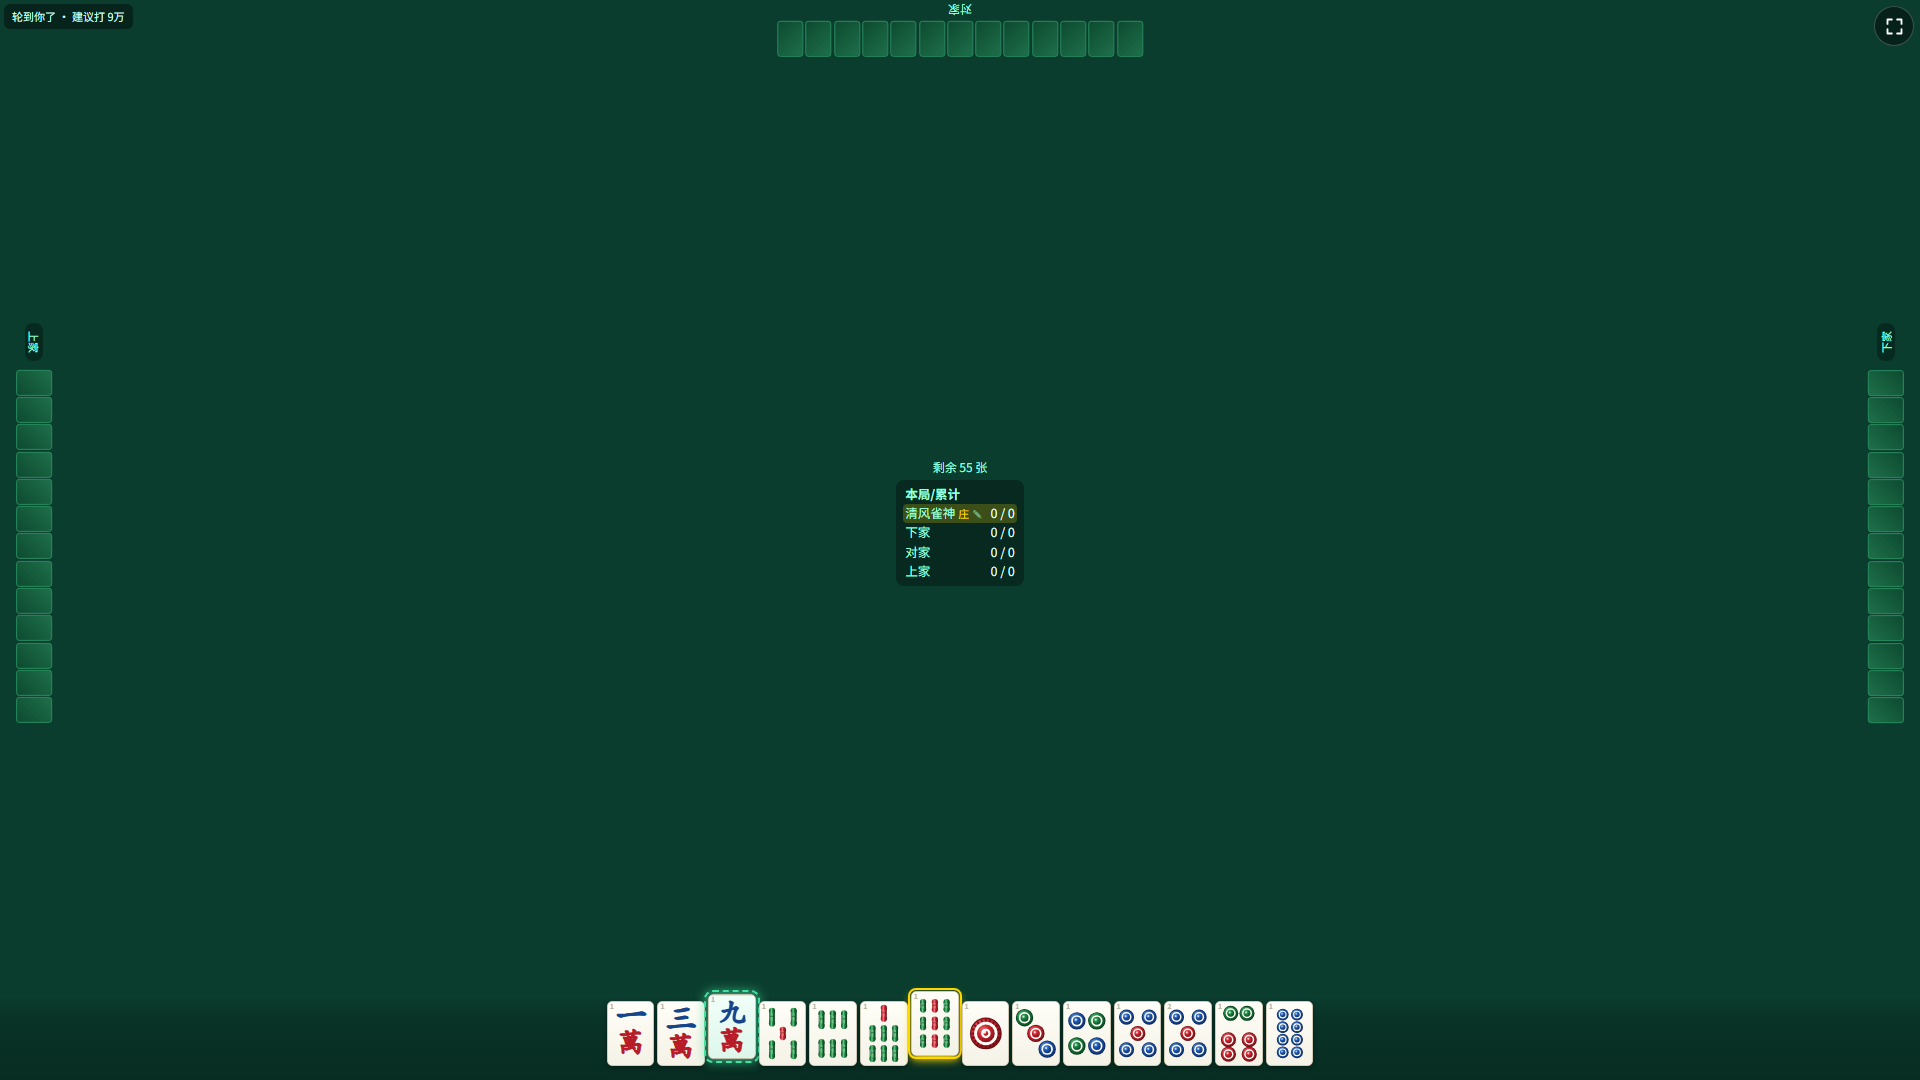
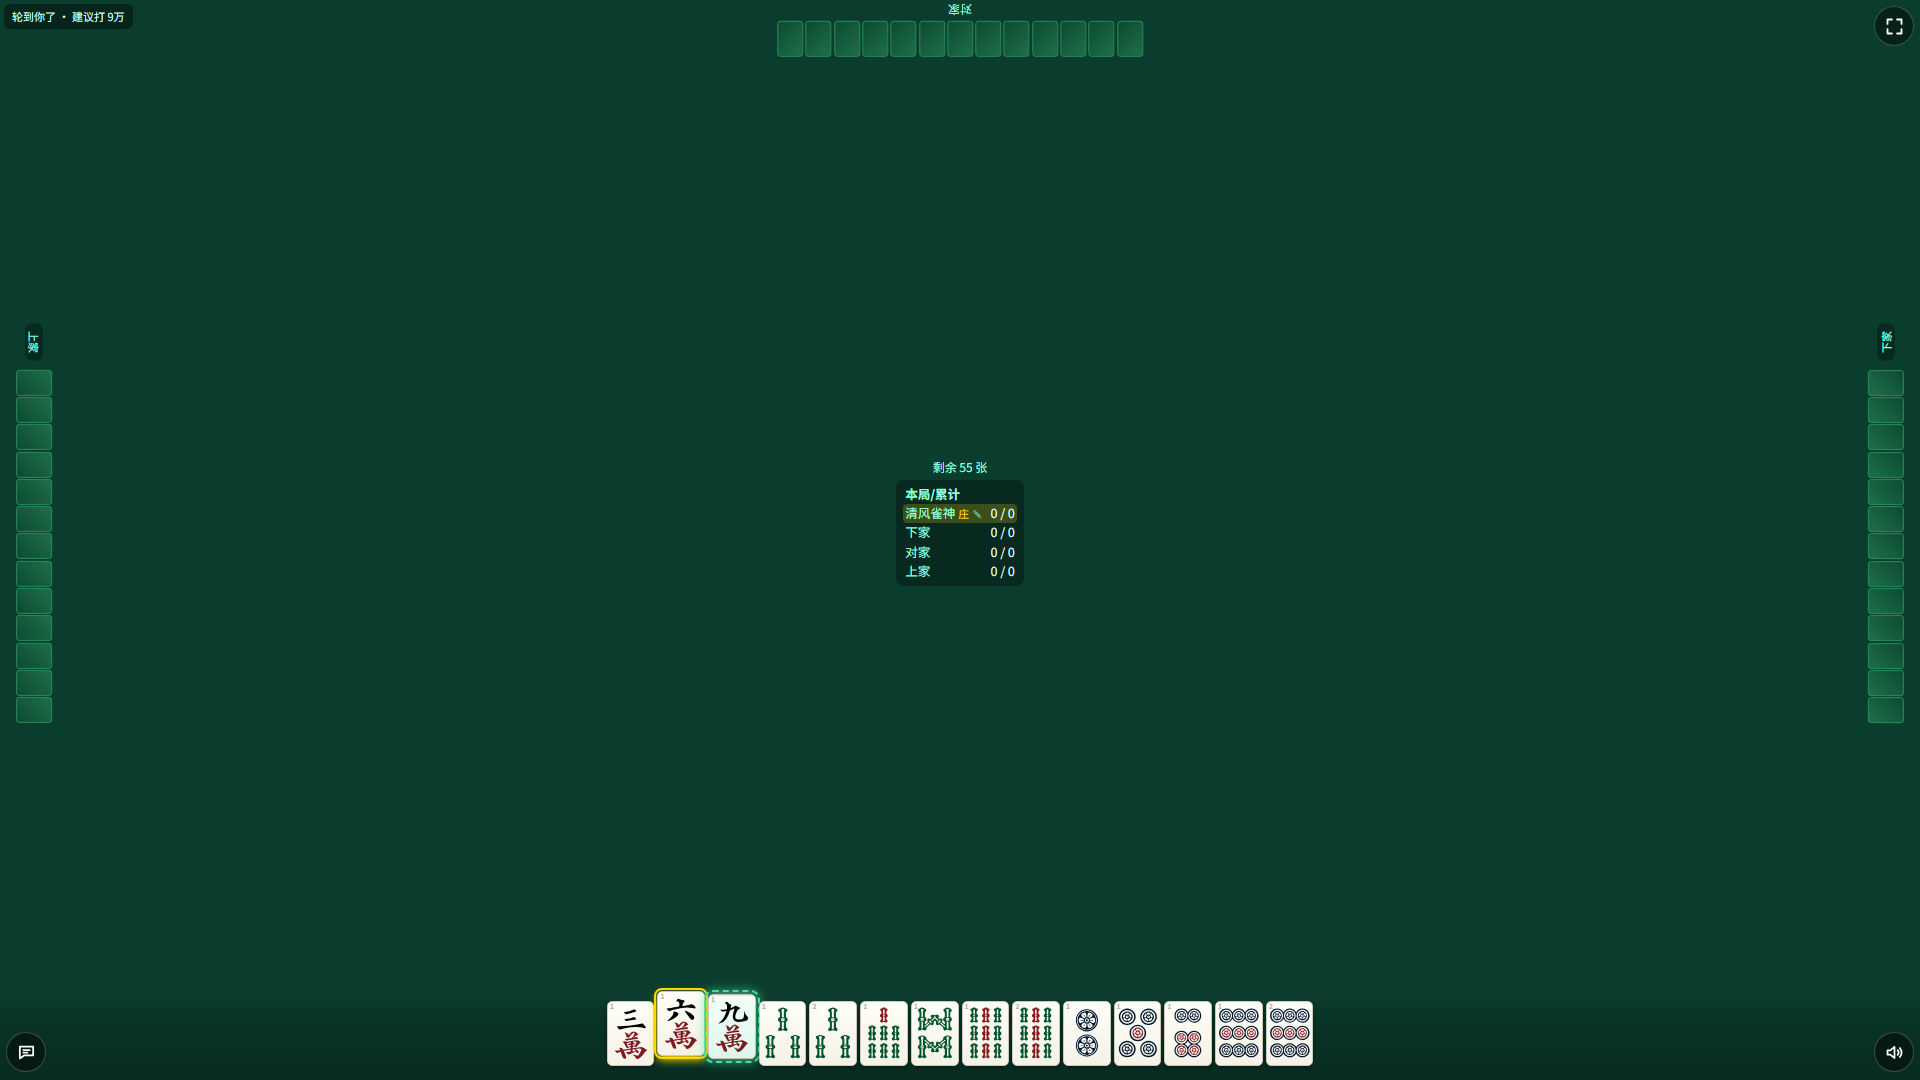
README 加「在线体验」地址；界面预览 3 张旧牌面截图换成新版（竖屏/横屏/桌面）

Changed region(s): [[0.3125, 0.9167, 0.6875, 1.0], [0.0, 0.9472, 0.0312, 0.9778]]

diff --git a/README.md b/README.md
@@ -16,6 +16,10 @@
 
 ---
 
+## 在线体验
+
+[http://www.buez.cn:8088/mj/index.html](http://www.buez.cn:8088/mj/index.html)
+
 ## 界面预览
 
 | 手机竖屏 | 手机横屏 |
